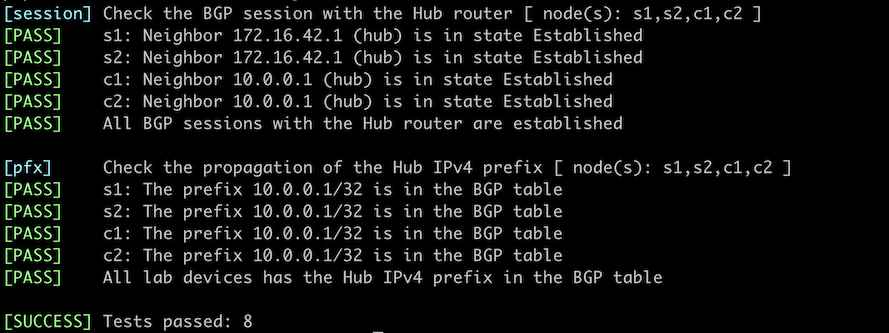
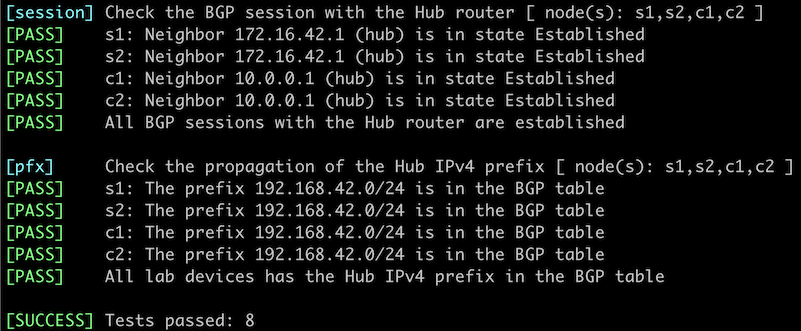
Remove loopback BGP routes from the BGP session labs

diff --git a/docs/session/9-dynamic.md b/docs/session/9-dynamic.md
@@ -18,14 +18,14 @@ In this lab exercise, you'll configure two types of dynamic peers on a hub route
 
 ## Existing Device Configuration
 
-The routers in your lab use the following BGP AS numbers. Each router router advertises an IPv4 prefix.
+The routers in your lab use the following BGP AS numbers. The external routers and the hub router advertise IPv4 prefixes.
 
 | Node/ASN | Router ID | Advertised prefixes |
 |----------|----------:|--------------------:|
 | **AS65000** ||
-| c1 | 10.0.0.4 | 10.0.0.4/32 |
-| c2 | 10.0.0.5 | 10.0.0.5/32 |
-| hub | 10.0.0.1 | 10.0.0.1/32 |
+| c1 | 10.0.0.4 |  |
+| c2 | 10.0.0.5 |  |
+| hub | 10.0.0.1 | 192.168.42.0/24 |
 | **AS65100** ||
 | s1 | 10.0.0.2 | 10.0.0.2/32 |
 | s2 | 10.0.0.3 | 10.0.0.3/32 |
@@ -92,36 +92,44 @@ You can also validate your work on the Hub router:
 * Check the state of the BGP sessions with a command similar to **show ip bgp summary**. You should see four BGP neighbors, two from AS 65000 and two from AS 65100.
 
 ```
-hub#show ip bgp summary
-BGP summary information for VRF default
-Router identifier 10.0.0.1, local AS number 65000
-Neighbor Status Codes: m - Under maintenance
-  Neighbor    V AS           MsgRcvd   MsgSent  InQ OutQ  Up/Down State   PfxRcd PfxAcc
-  10.0.0.4    4 65000            995      1171    0    0 00:49:36 Estab   1      1
-  10.0.0.5    4 65000           1678      1971    0    0 01:23:43 Estab   1      1
-  172.16.42.2 4 65100           1627      1908    0    0 01:21:03 Estab   1      1
-  172.16.42.3 4 65100           1627      1910    0    0 01:21:03 Estab   1      1
+$ netlab connect -q hub --show ip bgp sum
+
+IPv4 Unicast Summary:
+BGP router identifier 10.0.0.1, local AS number 65000 VRF default vrf-id 0
+BGP table version 3
+RIB entries 5, using 480 bytes of memory
+Peers 4, using 52 KiB of memory
+Peer groups 2, using 128 bytes of memory
+
+Neighbor         V         AS   MsgRcvd   MsgSent   TblVer  InQ OutQ  Up/Down State/PfxRcd   PfxSnt Desc
+*s1(172.16.42.2) 4      65100        42        43        3    0    0 00:01:52            1        3 FRRouting/10.0.1_git
+*s2(172.16.42.3) 4      65100        42        43        3    0    0 00:01:52            1        3 FRRouting/10.0.1_git
+*c1(10.0.0.4)    4      65000        44        47        3    0    0 00:02:05            0        3 FRRouting/10.0.1_git
+*c2(10.0.0.5)    4      65000        44        47        3    0    0 00:02:04            0        3 FRRouting/10.0.1_git
+
+Total number of neighbors 4
+* - dynamic neighbor
+4 dynamic neighbor(s), limit 100
 ```
 
-* Check the BGP table on the Hub router with a command similar to **show ip bgp**. You should see five IPv4 prefixes in the BGP table:
+* Check the BGP table on the Hub router with a command similar to **show ip bgp**. You should see the prefixes advertised by S1 and S2 as well as the local prefix:
 
 ```
-hub#show ip bgp
-BGP routing table information for VRF default
-Router identifier 10.0.0.1, local AS number 65000
-Route status codes: s - suppressed contributor, * - valid, > - active, E - ECMP head, e - ECMP
-                    S - Stale, c - Contributing to ECMP, b - backup, L - labeled-unicast
-                    % - Pending best path selection
-Origin codes: i - IGP, e - EGP, ? - incomplete
-RPKI Origin Validation codes: V - valid, I - invalid, U - unknown
-AS Path Attributes: Or-ID - Originator ID, C-LST - Cluster List, LL Nexthop - Link Local Nexthop
+$ netlab connect -q hub --show ip bgp
+BGP table version is 3, local router ID is 10.0.0.1, vrf id 0
+Default local pref 100, local AS 65000
+Status codes:  s suppressed, d damped, h history, * valid, > best, = multipath,
+               i internal, r RIB-failure, S Stale, R Removed
+Nexthop codes: @NNN nexthop's vrf id, < announce-nh-self
+Origin codes:  i - IGP, e - EGP, ? - incomplete
+RPKI validation codes: V valid, I invalid, N Not found
 
-          Network                Next Hop              Metric  AIGP       LocPref Weight  Path
- * >      10.0.0.1/32            -                     -       -          -       0       i
- * >      10.0.0.2/32            172.16.42.2           0       -          100     0       65100 i
- * >      10.0.0.3/32            172.16.42.3           0       -          100     0       65100 i
- * >      10.0.0.4/32            10.0.0.4              0       -          100     0       i
- * >      10.0.0.5/32            10.0.0.5              0       -          100     0       i
+    Network          Next Hop            Metric LocPrf Weight Path
+ *> 10.0.0.2/32      172.16.42.2(s1)          0             0 65100 i
+ *> 10.0.0.3/32      172.16.42.3(s2)          0             0 65100 i
+ *> 192.168.42.0/24  0.0.0.0(hub)             0         32768 i
+
+Displayed 3 routes and 3 total paths
 ```
 
 ## Impact of BGP Session Loss
@@ -143,7 +151,7 @@ Bgp: %BGP-3-NOTIFICATION: received from neighbor 10.0.0.4 (VRF default AS 65000)
 Bgp: %BGP-5-ADJCHANGE: peer 10.0.0.4 (VRF default AS 65000) old state Established event RecvNotify new state Idle
 ```
 
-However, even though the BGP log message claims the BGP neighbor is now in the *Idle* state, the neighbor is no longer visible in the list of BGP neighbors:
+However, even though the BGP log message claims the BGP neighbor is now in the *Idle* state, the neighbor is no longer visible in the list of BGP neighbors (printout from Arista EOS):
 
 ```
 hub#show ip bgp summary
